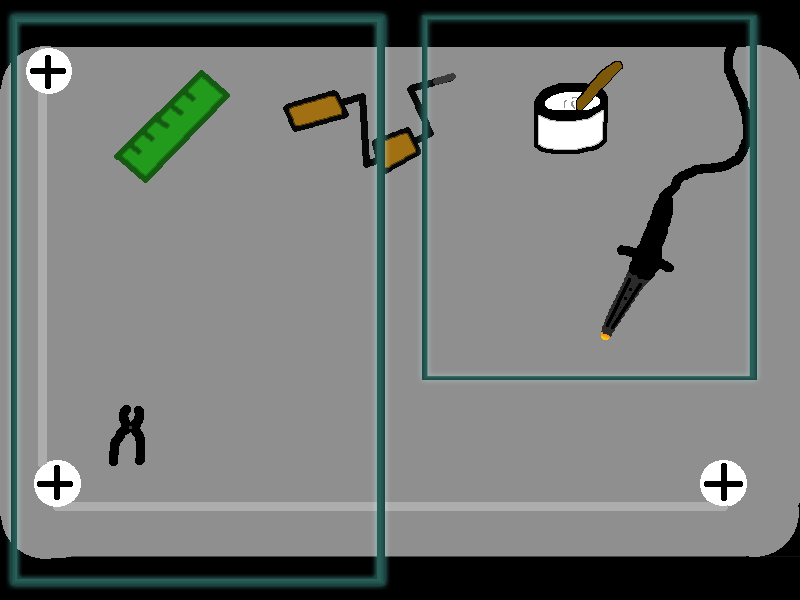
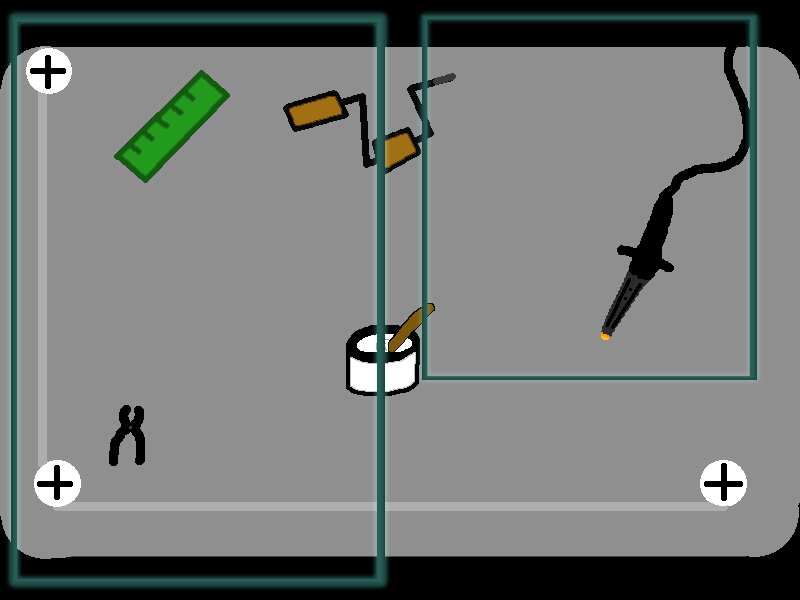
Nivelado cosillas y retocado arte y fix bugs

Changed region(s): [[0.6562, 0.09, 0.7812, 0.27], [0.4062, 0.51, 0.5625, 0.66]]

diff --git a/Proyecto/Proyecto/EnemigoBomba.cpp b/Proyecto/Proyecto/EnemigoBomba.cpp
@@ -18,7 +18,7 @@ EnemigoBomba::EnemigoBomba(Juego* punteroJuego, int x, int y) : Enemigo(punteroJ
 	currentAnim = animaciones.at("walk");
 	stats.daño = 20;
 	stats.velAtq = 0;
-	stats.velMov = 1;
+	stats.velMov = 0.7;
 	stats.vida = 40;
 	visible = true;
 	
@@ -88,7 +88,7 @@ void EnemigoBomba::crecer(){
 		static_cast<b2PolygonShape*>(shape)->SetAsBox((sprite->w / PPM) / 2, (sprite->h / PPM) / 2, { (float)(sprite->w / PPM) / 2, (float)(sprite->h / PPM) / 2 }, 0);
 		fDef.shape = shape; fDef.density = 5.0f; fDef.friction = 0;
 		body->CreateFixture(&fDef);
-		stats.velMov = 2.3;
+		stats.velMov = 1.2;
 	}
 	if ((i < 175 || j < 175) && sprite->h <= 90){
 		sprite->h++;
@@ -99,7 +99,7 @@ void EnemigoBomba::crecer(){
 		static_cast<b2PolygonShape*>(shape)->SetAsBox((sprite->w / PPM) / 2, (sprite->h / PPM) / 2, { (float)(sprite->w / PPM) / 2, (float)(sprite->h / PPM) / 2 }, 0);
 		fDef.shape = shape; fDef.density = 5.0f; fDef.friction = 0;
 		body->CreateFixture(&fDef);
-		stats.velMov = 3.5;
+		stats.velMov = 2.1;
 	}
 	if ((i < 100 || j < 100) && sprite->h <= 120){
 		sprite->h++;
@@ -111,7 +111,7 @@ void EnemigoBomba::crecer(){
 		static_cast<b2PolygonShape*>(shape)->SetAsBox((sprite->w / PPM) / 2, (sprite->h / PPM) / 2, { (float)(sprite->w / PPM) / 2, (float)(sprite->h / PPM) / 2 }, 0);
 		fDef.shape = shape; fDef.density = 5.0f; fDef.friction = 0;
 		body->CreateFixture(&fDef);
-		stats.velMov = 5;
+		stats.velMov = 3.5;
 	}
 
 	if ((i > 150 || j > 150) && sprite->h > 50){

diff --git a/Proyecto/Proyecto/Consumible.h b/Proyecto/Proyecto/Consumible.h
@@ -65,7 +65,7 @@ class Cable : public Consumible
 {
 public:
 	Cable(Juego* punteroJuego, SDL_Rect spritePar, string objectId) :Consumible(punteroJuego, spritePar, objectId) {
-		statsUp.velMov = 10;
+		statsUp.velMov = 20;
 	}
 	virtual void effect() {
 		Consumible::effect();
@@ -76,7 +76,7 @@ class Transistor : public Consumible
 {
 public:
 	Transistor(Juego* punteroJuego, SDL_Rect spritePar, string objectId) :Consumible(punteroJuego, spritePar, objectId) {
-		statsUp.velAtq = 1;
+		statsUp.velAtq = -0.3;
 	}
 
 	virtual void effect() {

diff --git a/Proyecto/Proyecto/Inanimado.h b/Proyecto/Proyecto/Inanimado.h
@@ -130,7 +130,7 @@ public:
 class  SelectorCrafteo : public Inanimado
 {
 public:
-	SelectorCrafteo(Juego * Pj, int x, int y, int w, int h) :Inanimado(Pj, SDL_Rect{ x, y, TILE_WIDTH * 4, TILE_HEIGHT * 4 }, "SelectorCrafteo") {
+	SelectorCrafteo(Juego * Pj, int x, int y, int w, int h) :Inanimado(Pj, SDL_Rect{ x, y, TILE_WIDTH * 4, TILE_HEIGHT * 3 }, "SelectorCrafteo") {
 		fDef.filter.categoryBits = Juego::ESCENARIO;
 		fDef.filter.maskBits = Juego::JUGADOR;
 		body->CreateFixture(&fDef);

diff --git a/Proyecto/Proyecto/ZonaBase.cpp b/Proyecto/Proyecto/ZonaBase.cpp
@@ -10,6 +10,7 @@ ZonaBase::ZonaBase(Juego* punteroJuego):ZonaJuego(punteroJuego)
 	nivelActual = baseNivel;
 	pJuego->getCamera()->setLimite(nivelActual->getArea());
 	static_cast<Jugable*>(pJuego->getPlayer())->cambiaEstado(Jugable::BASE);
+	
 	static_cast<Jugable*>(pJuego->getPlayer())->setPos(200,50);
 	baseNivel->InitRoom();
 }

diff --git a/Proyecto/Proyecto/Juego.cpp b/Proyecto/Proyecto/Juego.cpp
@@ -652,7 +652,7 @@ void Juego::setFinZona(){
 
 void Juego::reiniciar(){
 	Jugable::atributos vidaReset;
-	vidaReset.vida = 4;
+	vidaReset.vida = 40;
 	static_cast<Jugable*>(getPlayer())->applyEffect(vidaReset);
 }
 

diff --git a/Proyecto/Proyecto/Jugable.cpp b/Proyecto/Proyecto/Jugable.cpp
@@ -208,6 +208,7 @@ void Jugable::move() {
 }
 
 void Jugable::update() {
+	std::cout << stats.vida << "\n";
 	move();
 	Personaje::update();
 }
